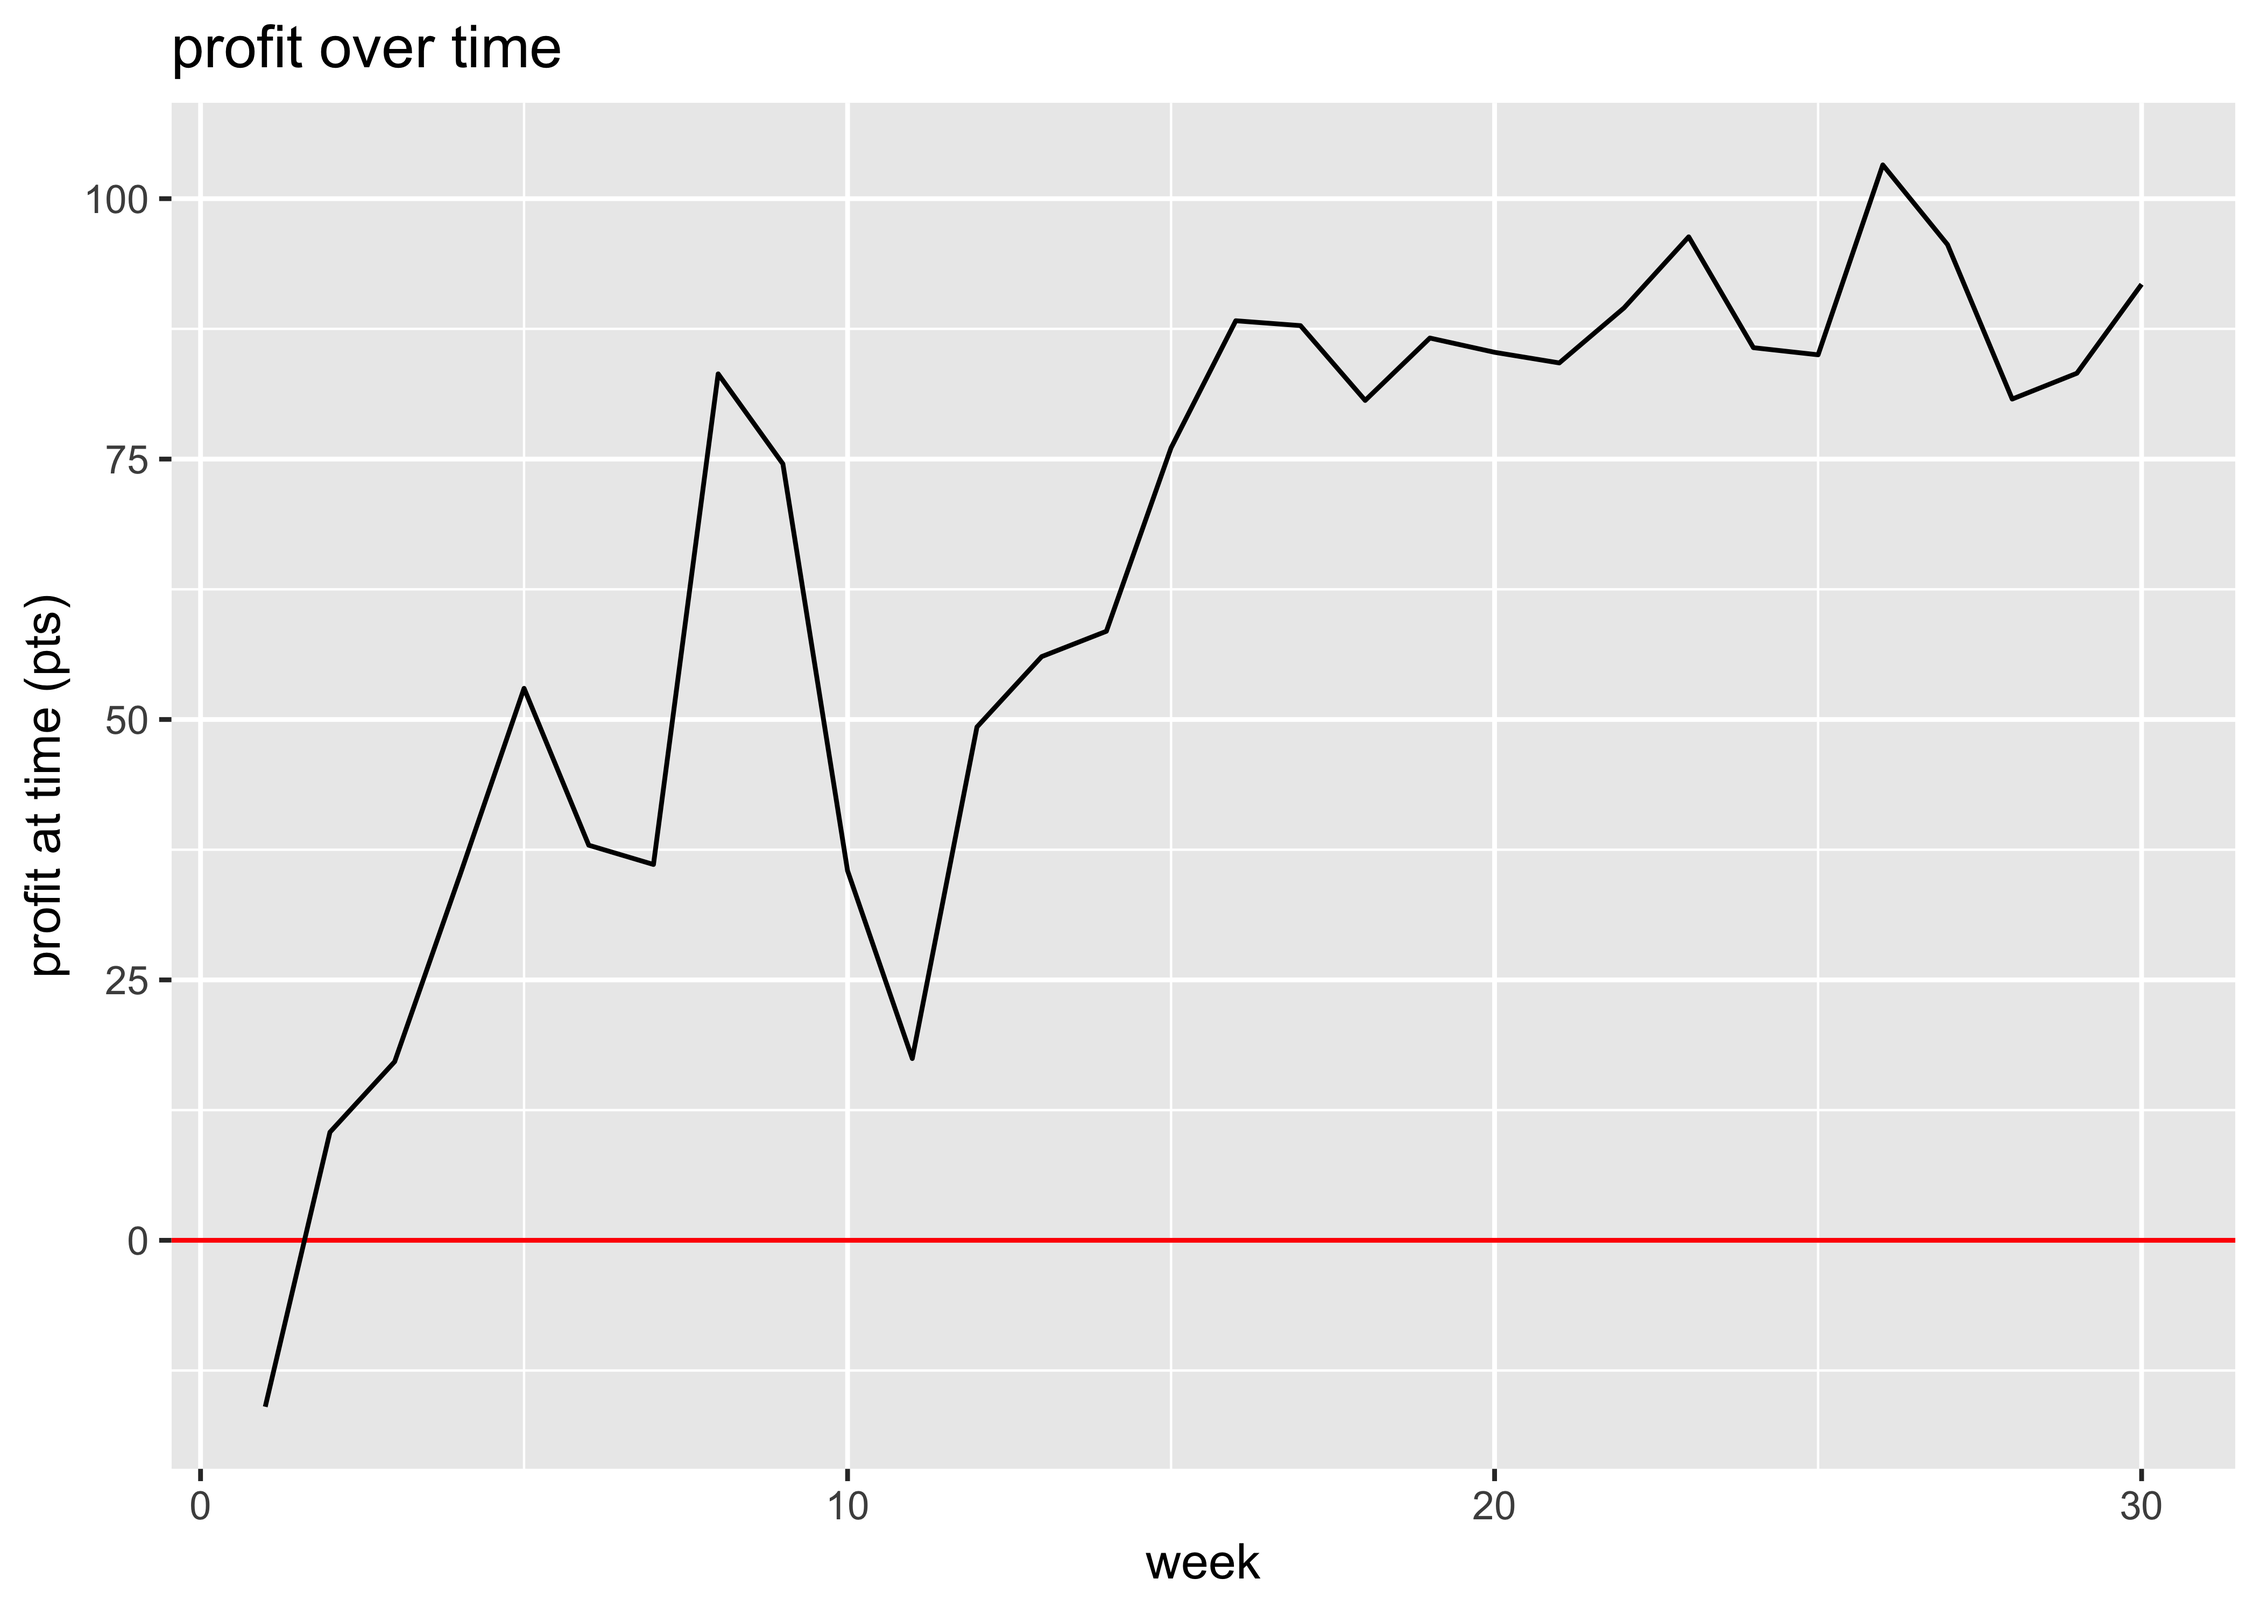
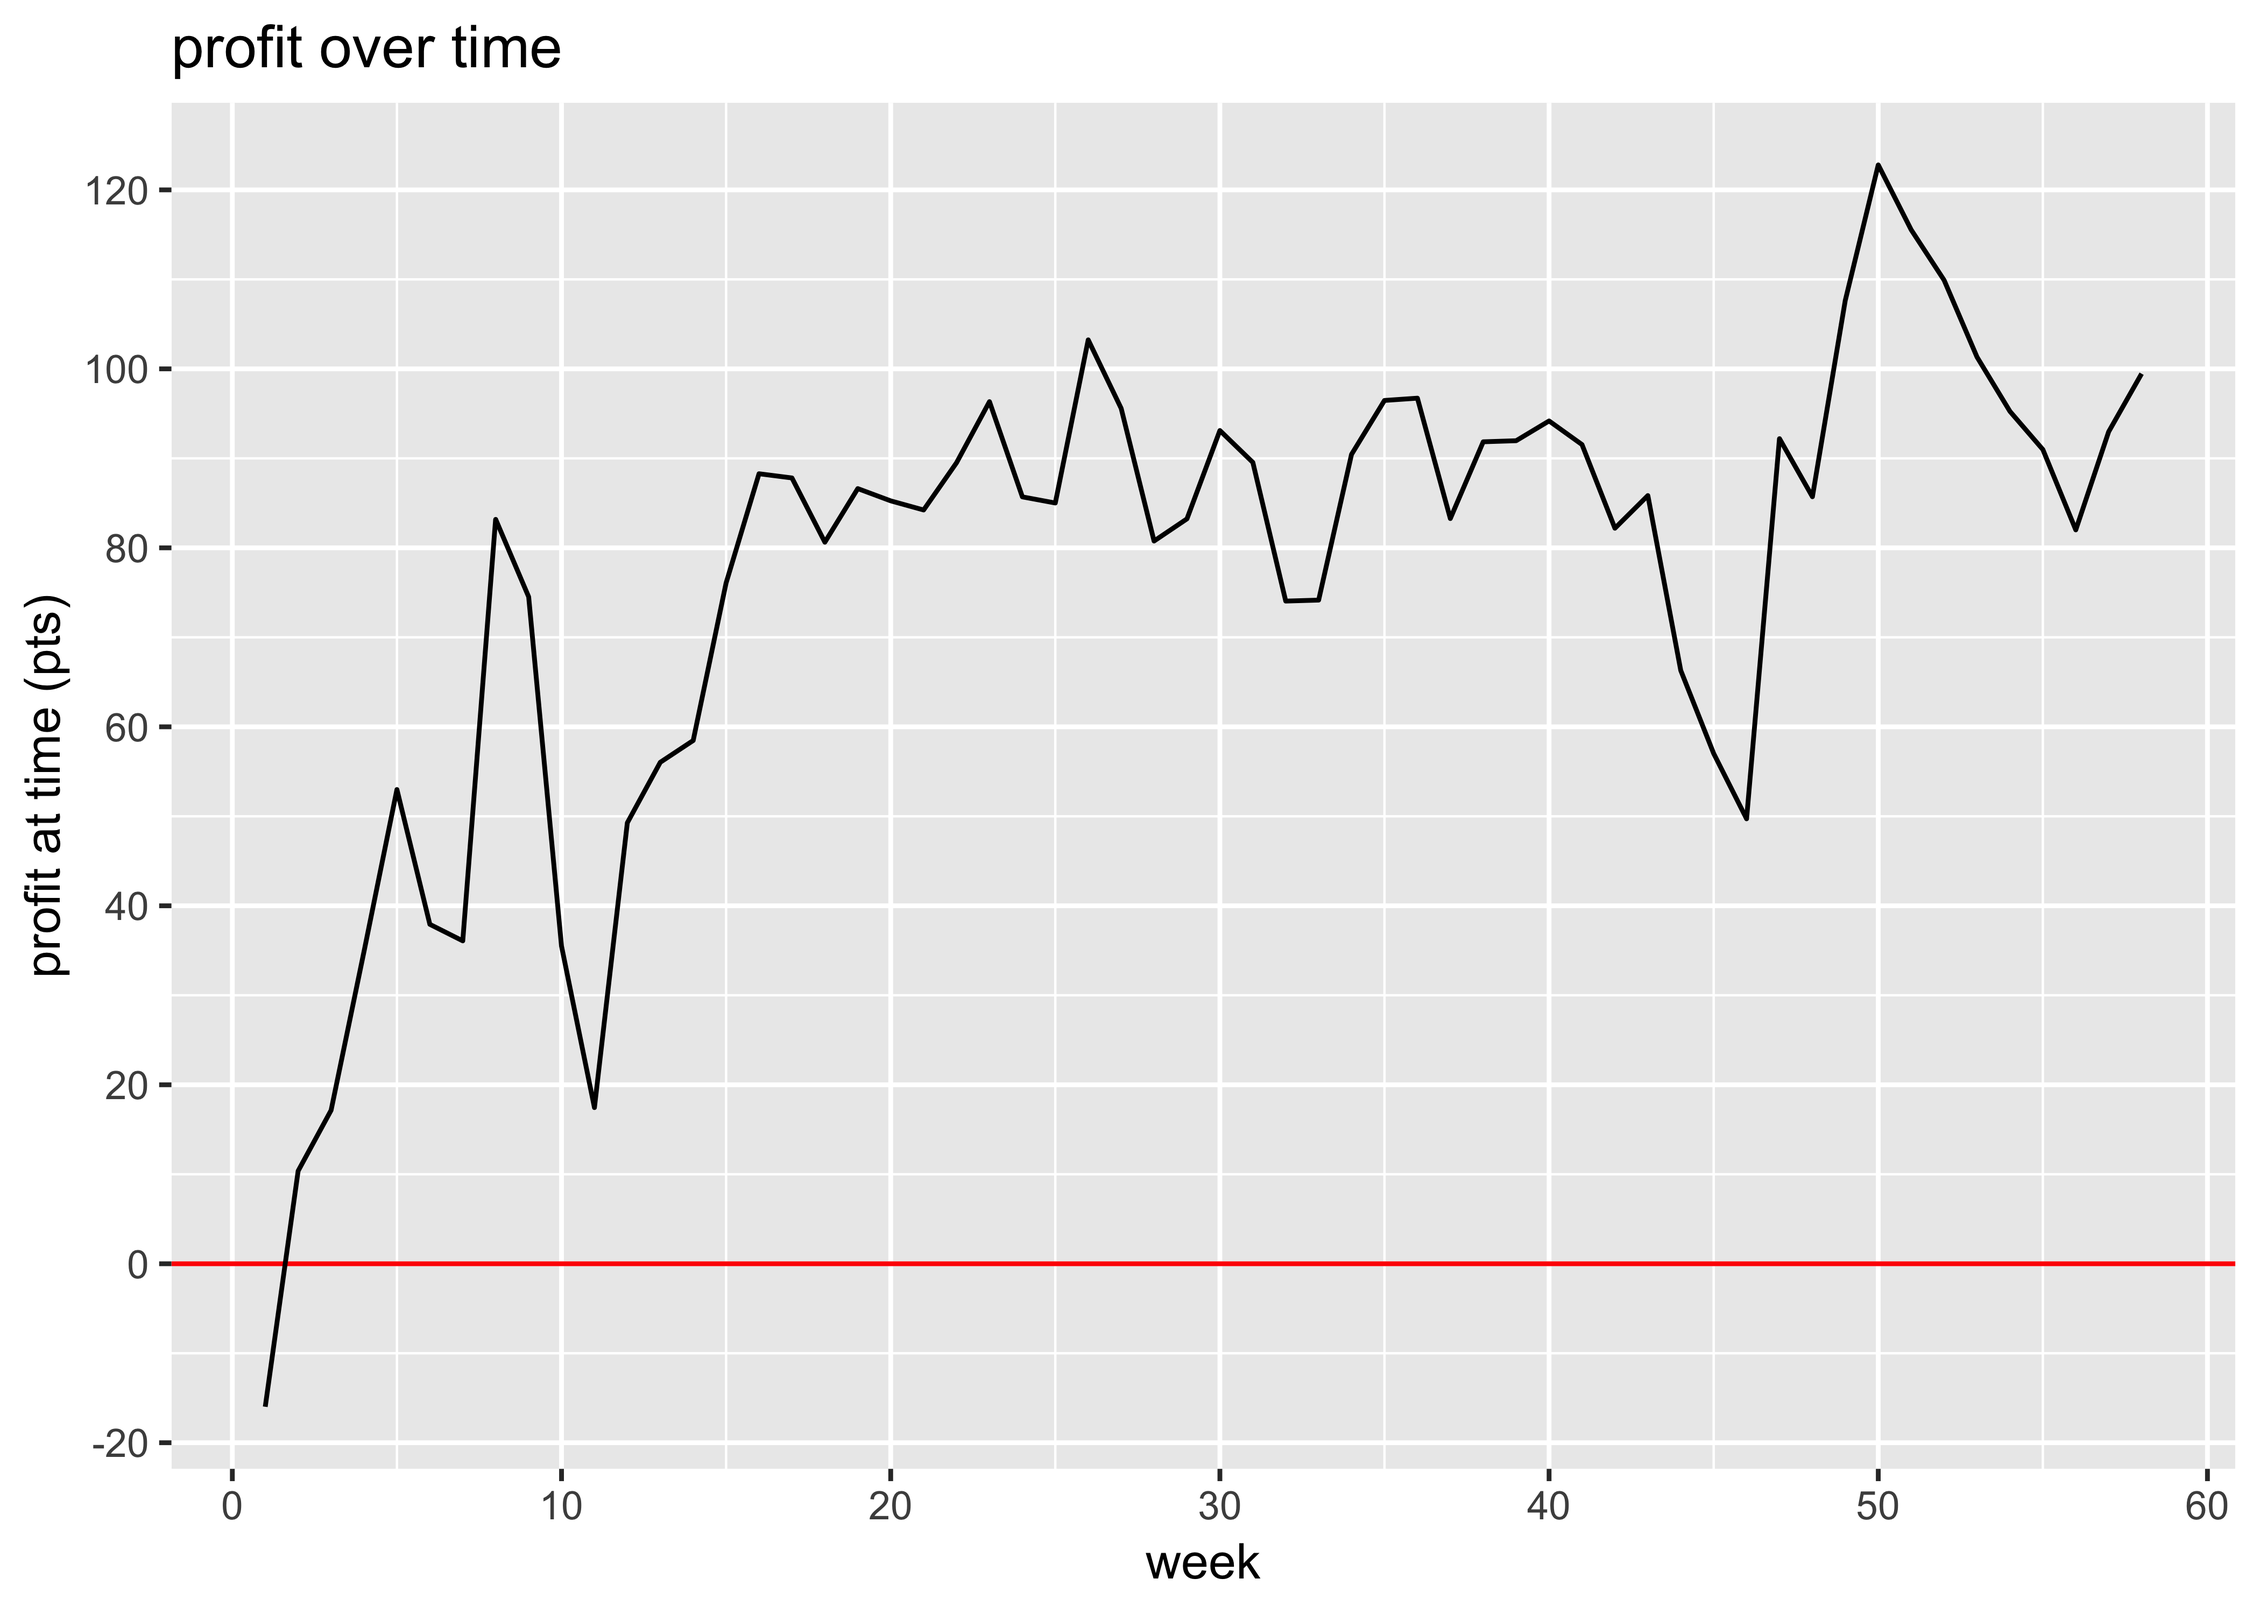
Attempt beginning to set up travis cron builds.

diff --git a/report.md b/report.md
@@ -1,6 +1,6 @@
 report
 ================
-2018-11-16
+2019-06-01
 
 # Profit over time
 
@@ -10,50 +10,58 @@ report
 
 # ROI and ROC
 
-We put in €9000 and we’ve made a profit of €4,131 on the bets. However,
-we’ve paid three subscriptions of £600 which amounts to €2,045 so our
-net profit is €2,086. That’s a return on capital of 23.18%. This gives
-us a current bank of €11086.
+We put in €9000 and we’ve made a profit of €3,868 on the bets. However,
+we’ve paid three subscriptions of £600 which amounts to €2,036 so our
+net profit is €1,832. That’s a return on capital of 20.36%. This gives
+us a current bank of €10832.
 
-We have wagered a total of €56,949 and made a betting profit of €4,131,
-which gives us a betting ROI of 7.25%.
+We have wagered a total of €101,397 and made a betting profit of €3,868,
+which gives us a betting ROI of 3.81%.
 
 # Have any bookies been riddled?
 
 | bookmaker    | Aidan | Rory | total |
 | :----------- | :---- | :--- | :---- |
-| Paddy Power  | \+48  | \-5  | \+43  |
+| Betfred      | \+20  | \+34 | \+54  |
+| Paddy Power  | \+46  | \+1  | \+47  |
 | Bet365       | 0     | \+36 | \+36  |
-| Betfred      | \+6   | \+30 | \+36  |
-| Unibet       | \+10  | \+15 | \+25  |
-| William Hill | \+22  | \-3  | \+19  |
-| Coral        | \+17  | 0    | \+17  |
-| Matchbook    | \+10  | \+1  | \+11  |
+| Unibet       | \+15  | \+20 | \+35  |
+| Matchbook    | \+19  | \+3  | \+22  |
+| SkyBet       | \+17  | \-1  | \+17  |
 | SportingBet  | 0     | \+10 | \+10  |
-| Marathon     | 0     | \+3  | \+3   |
+| 10Bet        | \+15  | \-6  | \+9   |
+| NA           | 0     | \+7  | \+7   |
+| Coral        | \+5   | 0    | \+5   |
+| Marathon     | 0     | \+2  | \+2   |
 | JuJu         | \+1   | 0    | \+1   |
+| SportNation  | 0     | 0    | 0     |
 | Betway       | 0     | 0    | 0     |
-| SkyBet       | 0     | \-1  | \-1   |
+| HC Matchbook | 0     | \-1  | \-1   |
+| Betstars     | \-1   | 0    | \-1   |
+| Uniber       | 0     | \-1  | \-1   |
 | SunBets      | \-4   | \+3  | \-1   |
 | BetBright    | 0     | \-1  | \-1   |
+| RedZone      | 0     | \-2  | \-2   |
 | BetVictor    | 0     | \-3  | \-3   |
 | LC Matchbook | 0     | \-3  | \-4   |
+| Various      | \-3   | \-1  | \-4   |
 | BoyleSports  | \-5   | 0    | \-5   |
 | 888Sport     | 0     | \-5  | \-5   |
-| Boylesports  | \-5   | 0    | \-5   |
-| 188Bet       | \-2   | \-4  | \-5   |
-| 10Bet        | 0     | \-6  | \-6   |
 | SportsPesa   | 0     | \-6  | \-6   |
+| Boylesports  | \-6   | 0    | \-6   |
+| 188Bet       | \-3   | \-4  | \-6   |
+| SpreadEx     | \-8   | 0    | \-8   |
 | BetStars     | \-2   | \-9  | \-10  |
-| Betfair SB   | \-12  | \-2  | \-15  |
+| William Hill | \-10  | \-1  | \-11  |
 | Ladbrokes    | 0     | \-18 | \-18  |
-| Black Type   | 0     | \-19 | \-19  |
+| Black Type   | 0     | \-25 | \-25  |
+| Betfair SB   | \-24  | \-8  | \-32  |
 
 # Minimum acceptable odds
 
-We’ve had winnings of 897 points and losses of 799 points, so even if
-our odds were only a fraction 799 / 897 = 0.89 of what we actually got,
-we’d still be breaking even.
+We’ve had winnings of 1374 points and losses of 1280 points, so even if
+our odds were only a fraction 1280 / 1374 = 0.93 of what we actually
+got, we’d still be breaking even.
 
 # Winners and losers
 
@@ -61,32 +69,34 @@ Here’s a count of the number of winners, losers, and places we’ve had.
 
 | result                  |   n | percent |
 | :---------------------- | --: | :------ |
-| Win only Lose           | 340 | 63%     |
-| Win only Win            | 100 | 18%     |
-| Each way Lose           |  65 | 12%     |
-| Each way Place          |  16 | 3%      |
-| Each way Win            |   9 | 2%      |
-| Win only Unmatched Loss |   8 | 1%      |
-| Win only Unmatched Win  |   4 | 1%      |
+| Win only Lose           | 901 | 69%     |
+| Win only Win            | 182 | 14%     |
+| Each way Lose           | 108 | 8%      |
+| Win only Unmatched Loss |  44 | 3%      |
+| Each way Place          |  37 | 3%      |
+| Each way Win            |  19 | 1%      |
+| Win only Unmatched Win  |  12 | 1%      |
+| Each way Unmatched Loss |   1 | 0%      |
+| Win only Place          |   1 | 0%      |
 
 # Win only vs each way
 
-  - We’ve made 405 *win only* bets, on which we’ve made a profit of
-    €5,567.
-  - We’ve made 77 *each way* bets, on which we’ve made a profit of
-    €-1,436.
+  - We’ve made 732 *win only* bets, on which we’ve made a profit of
+    €3,705.
+  - We’ve made 112 *each way* bets, on which we’ve made a profit of
+    €163.
 
 # Unmatched Bets
 
 We’ll consider only win only bets (and not each way bets) in this
 section.
 
-Of the bets that have been matched, there have been 81 winners and 288
-losers. That means that 22% of matched bets have been winners. Of the
-bets that have not been matched, there have been 4 winners and 8 losers.
-That means that 33% of unmatched bets have been winners. Unmatched bets
-have saved us 11 points on losers but cost us 42 on winners, whereas
-getting better odds on posted bets which were matched has made us 4
-points (where I have assumed that when we post, we get 20% better odds
-than if we’d just taken best available at the time). So overall,
-unmatched bets have cost us 27 points.
+Of the bets that have been matched, there have been 125 winners and 546
+losers. That means that 19% of matched bets have been winners. Of the
+bets that have not been matched, there have been 12 winners and 44
+losers. That means that 21% of unmatched bets have been winners.
+Unmatched bets have saved us 43 points on losers but cost us 77 on
+winners, whereas getting better odds on posted bets which were matched
+has made us 44 points (where I have assumed that when we post, we get
+20% better odds than if we’d just taken best available at the time). So
+overall, unmatched bets have saved us 10 points.
